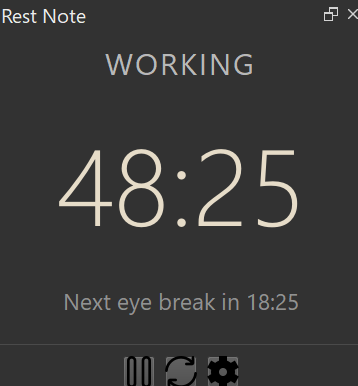
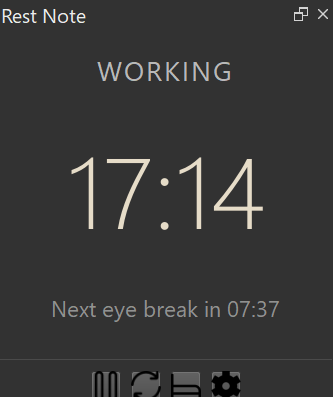
update

diff --git a/rest_note/docker.py b/rest_note/docker.py
@@ -113,6 +113,7 @@ class RestNoteDockerWidget(QDockWidget):
         self._icon_resume = QIcon(os.path.join(_ICONS_DIR, "play.png"))
         self._icon_refresh = QIcon(os.path.join(_ICONS_DIR, "refresh.png"))
         self._icon_setting = QIcon(os.path.join(_ICONS_DIR, "setting.png"))
+        self._icon_rest = QIcon(os.path.join(_ICONS_DIR, "rest.png"))
 
         _btn_style = "background-color: rgb(70, 70, 70);"
 
@@ -128,6 +129,12 @@ class RestNoteDockerWidget(QDockWidget):
         self.reset_btn.setToolTip("Reset")
         self.reset_btn.clicked.connect(self._on_reset_clicked)
 
+        self.rest_btn = QPushButton()
+        self.rest_btn.setIcon(self._icon_rest)
+        self.rest_btn.setStyleSheet(_btn_style)
+        self.rest_btn.setToolTip("Take a break now")
+        self.rest_btn.clicked.connect(self._on_rest_clicked)
+
         self.config_btn = QPushButton()
         self.config_btn.setIcon(self._icon_setting)
         self.config_btn.setStyleSheet(_btn_style)
@@ -138,6 +145,7 @@ class RestNoteDockerWidget(QDockWidget):
         btn_row.addStretch()
         btn_row.addWidget(self.pause_btn)
         btn_row.addWidget(self.reset_btn)
+        btn_row.addWidget(self.rest_btn)
         btn_row.addWidget(self.config_btn)
         btn_row.addStretch()
         layout.addLayout(btn_row)
@@ -183,7 +191,7 @@ class RestNoteDockerWidget(QDockWidget):
         btn_px = int(time_pt * self.BTN_RATIO)
         btn_px = max(self.BTN_MIN_PX, min(self.BTN_MAX_PX, btn_px))
         btn_sz = QSize(btn_px, btn_px)
-        for btn in (self.pause_btn, self.reset_btn, self.config_btn):
+        for btn in (self.pause_btn, self.reset_btn, self.rest_btn, self.config_btn):
             btn.setFixedSize(btn_sz)
             btn.setIconSize(btn_sz)
 
@@ -394,6 +402,11 @@ class RestNoteDockerWidget(QDockWidget):
         if self.idle_detector is not None:
             self.idle_detector.reset()
         self._refresh_display()
+
+    def _on_rest_clicked(self):
+        if self.state != self.STATE_BREAK:
+            self._start_big_break()
+            self._refresh_display()
 
     def _on_config_clicked(self):
         dialog = ConfigDialog(self.config, parent=self.widget())

diff --git a/README.md b/README.md
@@ -44,6 +44,7 @@ Once enabled, the timer starts automatically when Krita launches. The docker sho
 |---|---|
 | **Pause / Resume** | Freezes both timers. Click again to resume. |
 | **Reset** | Resets both timers and cancels any active overlay or toast. |
+| **Rest** | Start break immediately. |
 | **Config** | Opens the configuration dialog. |
 
 ### States
